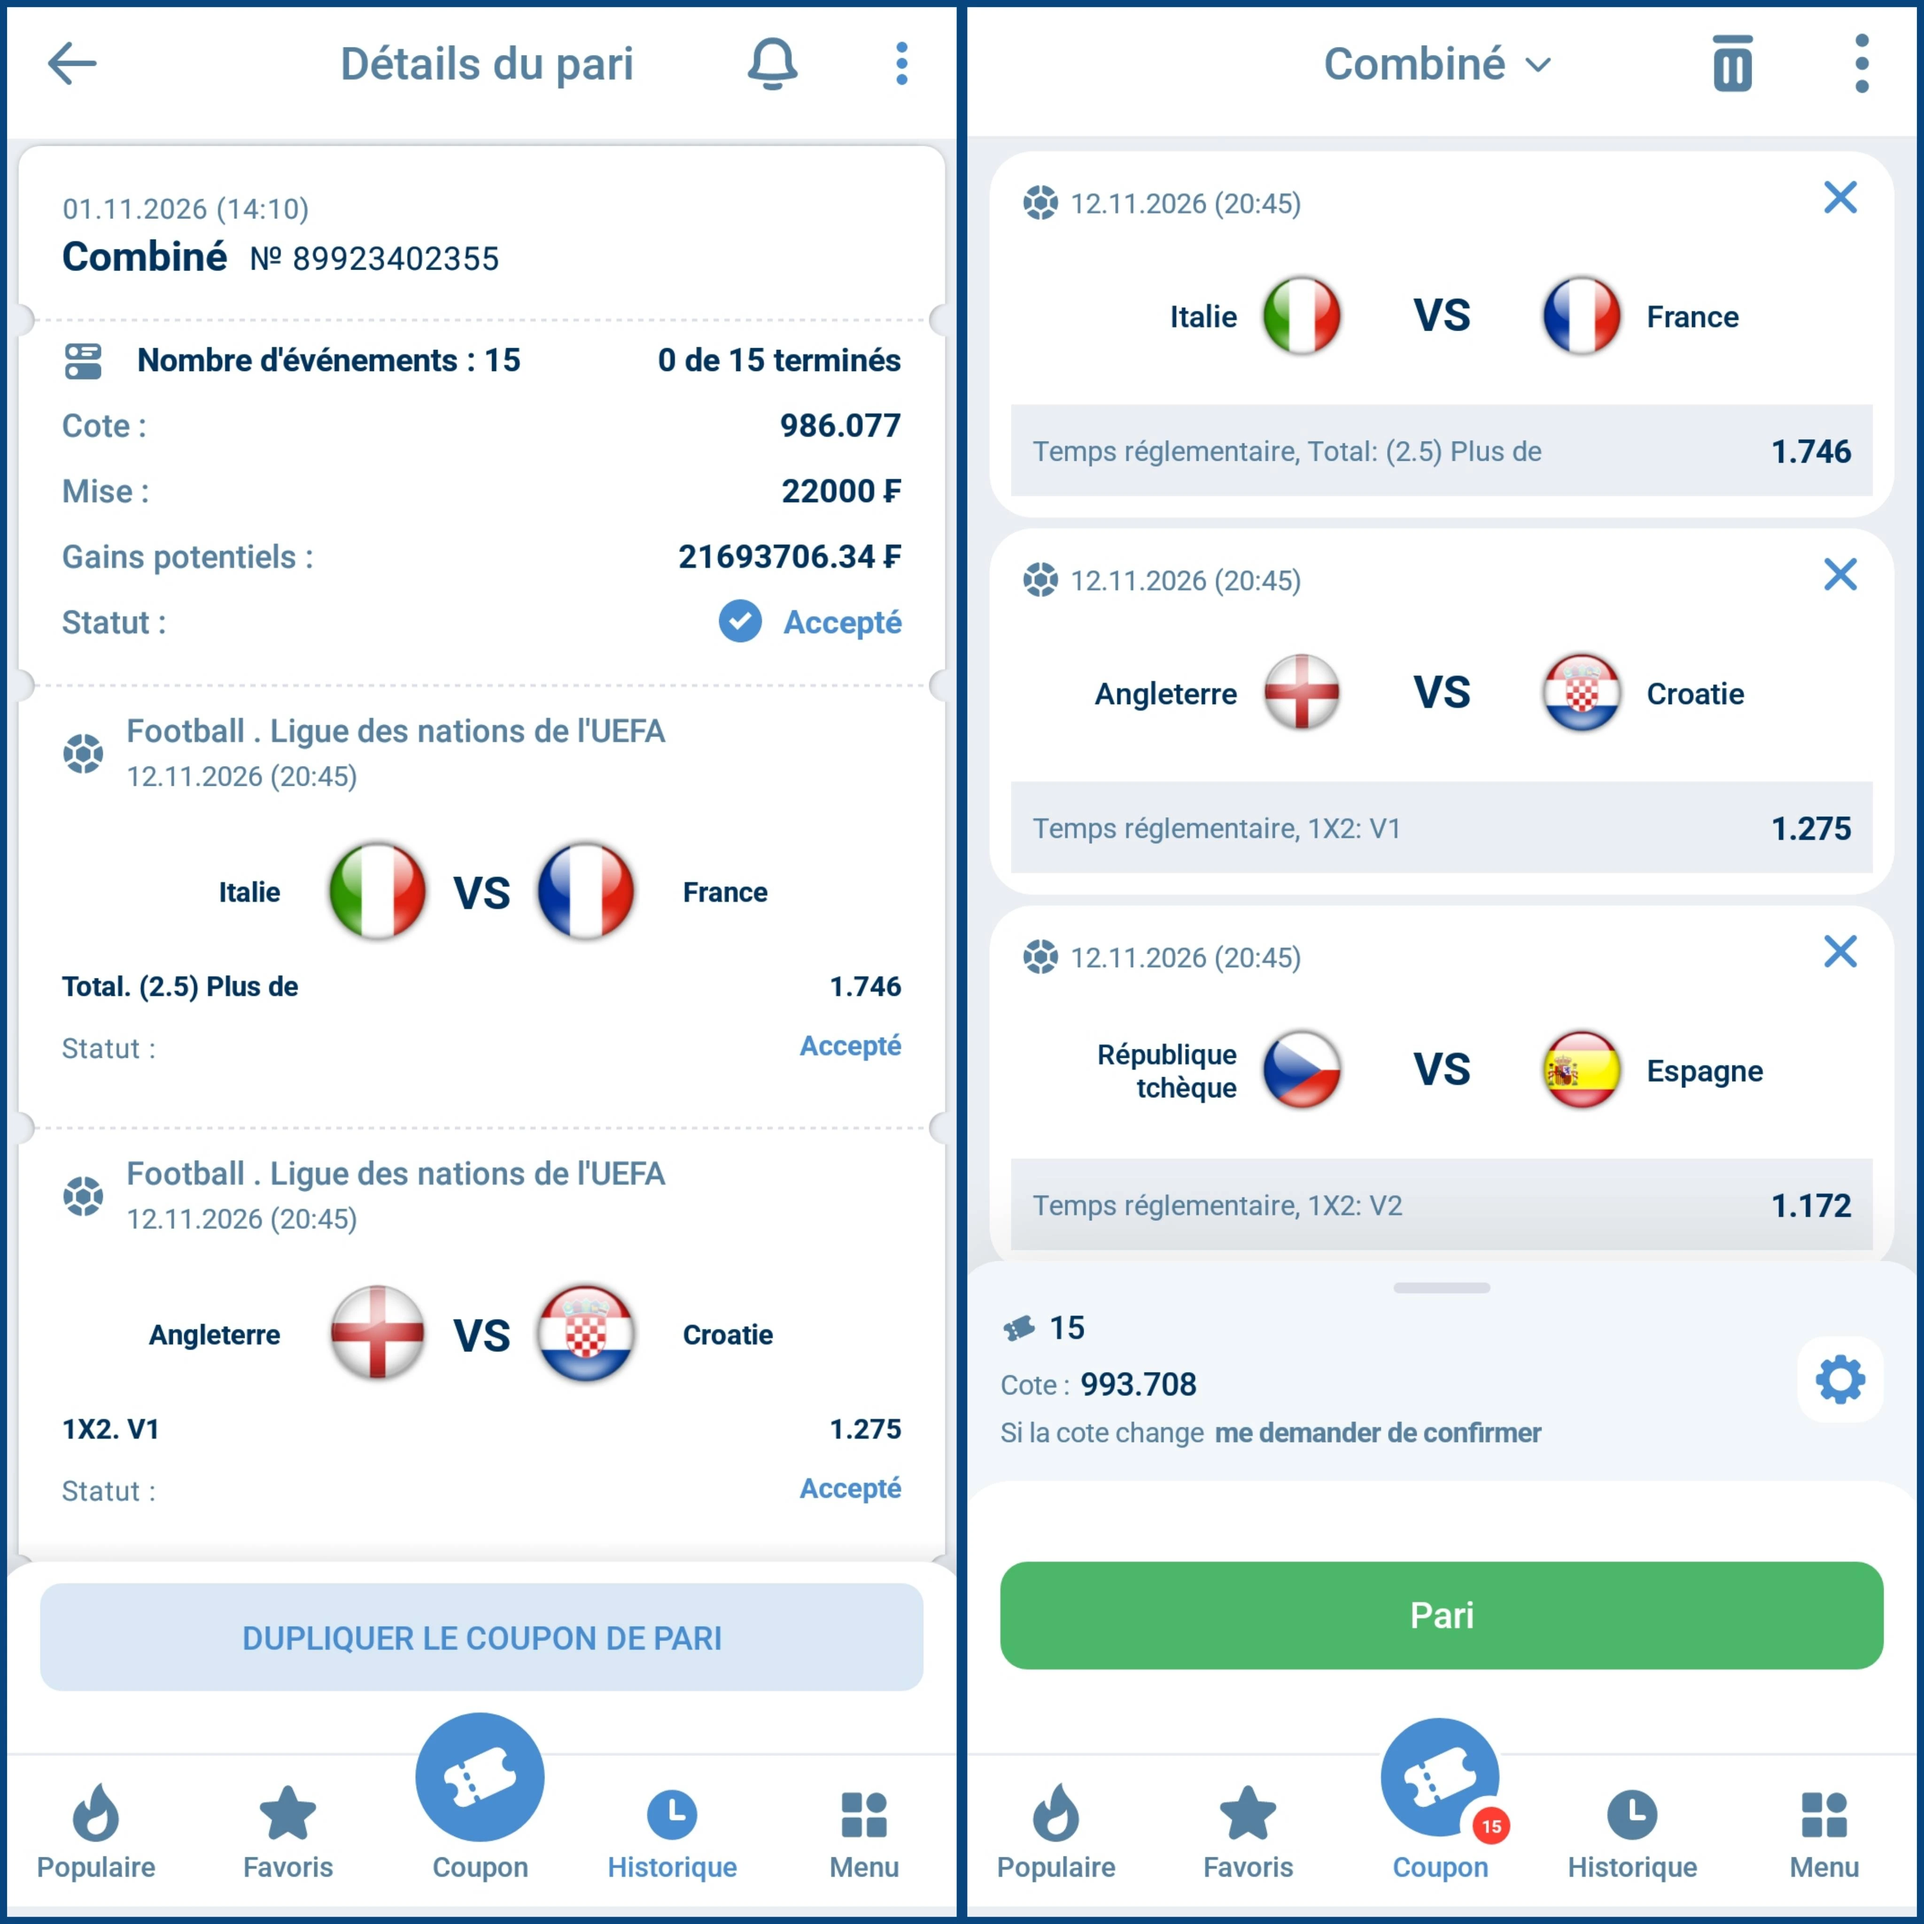
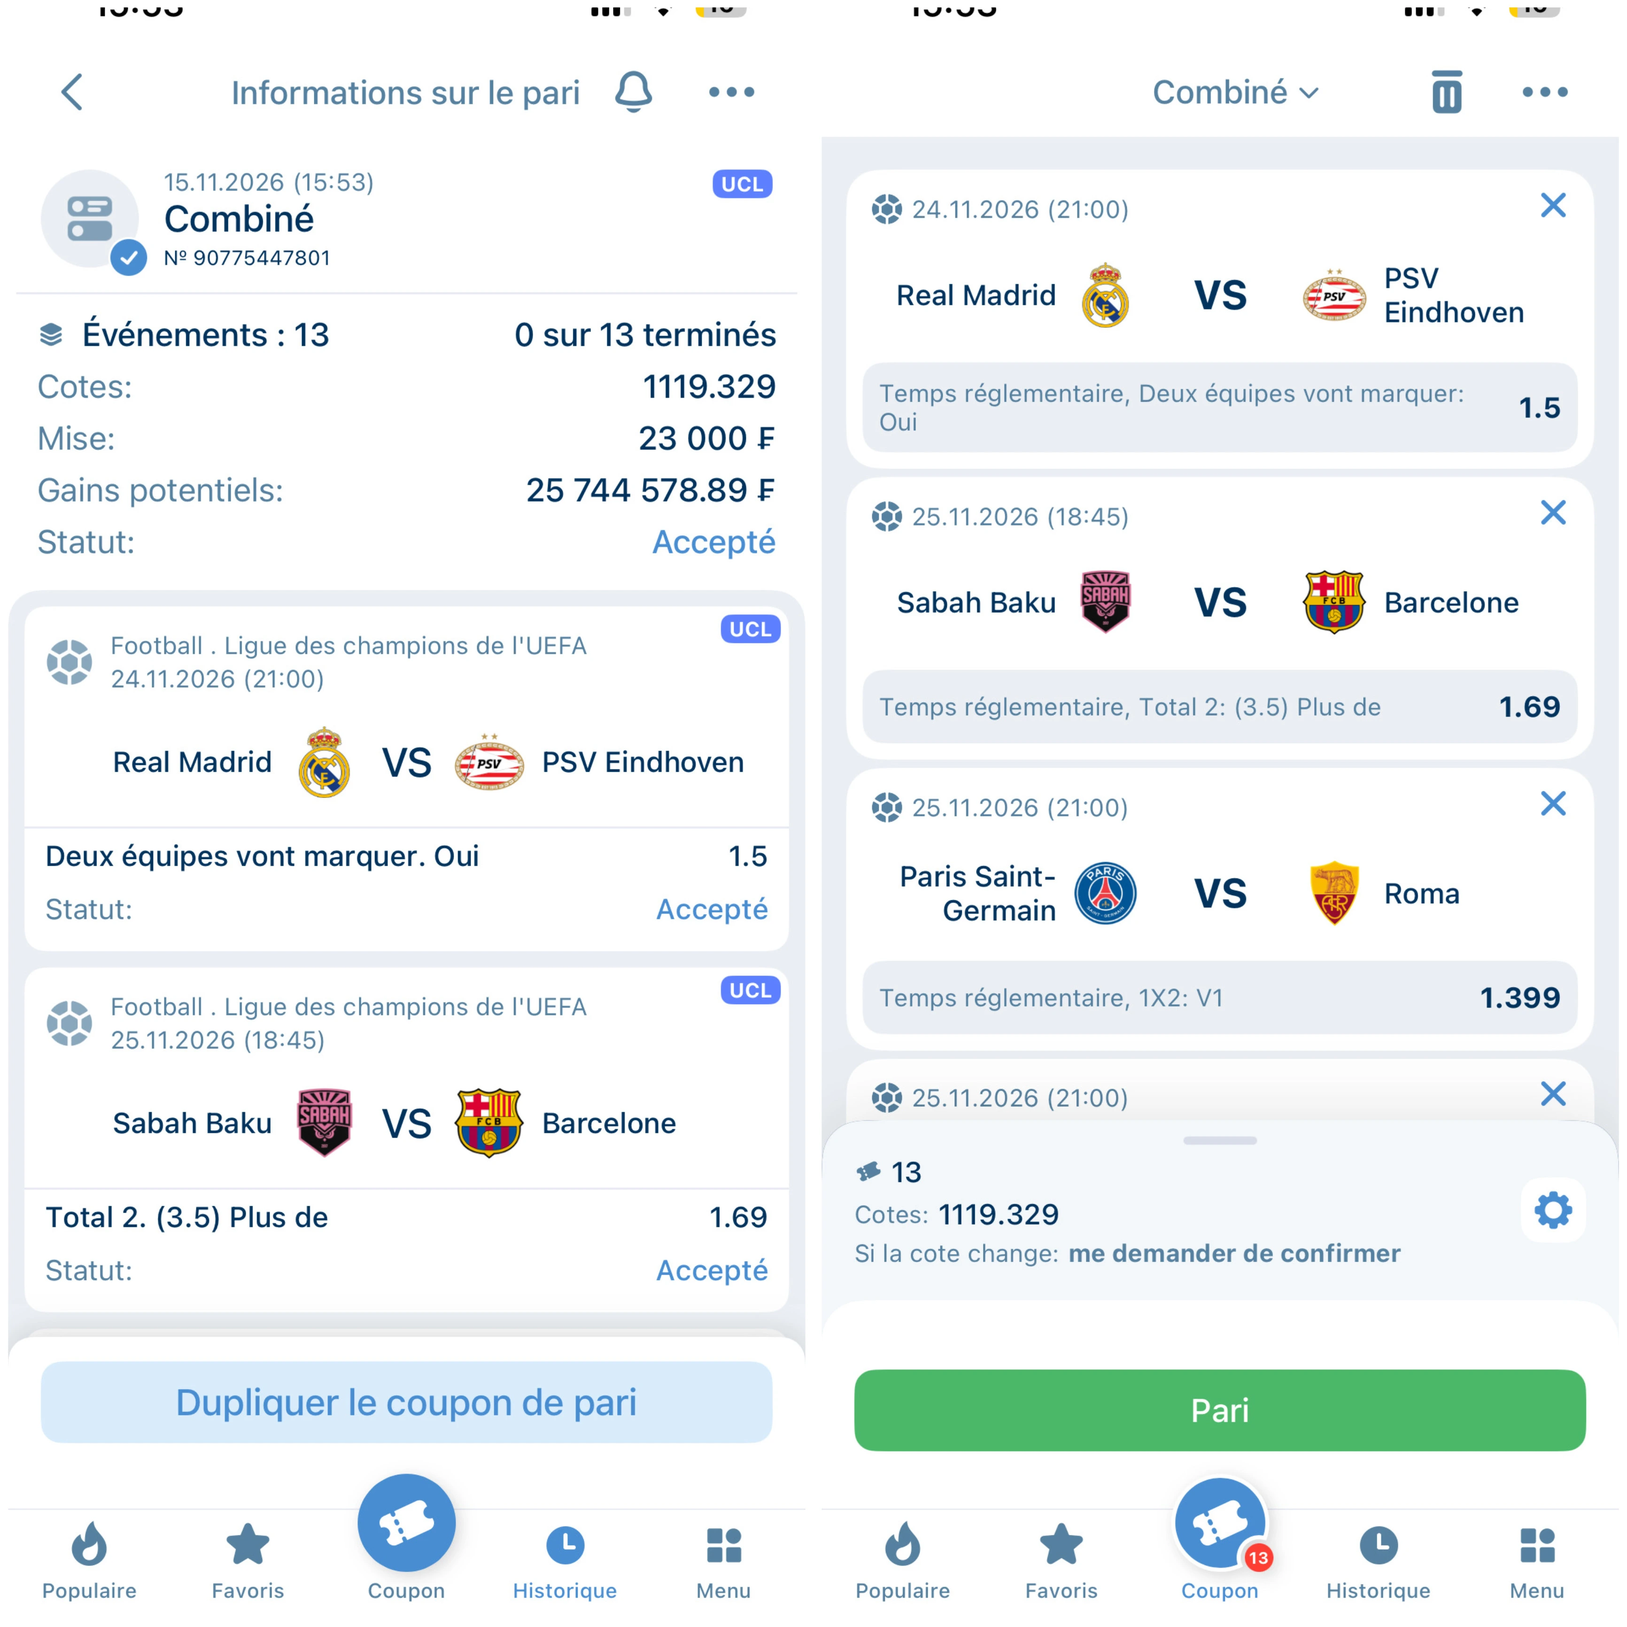
MAXO ads 16_11

diff --git a/src/constants/data.ts b/src/constants/data.ts
@@ -2,38 +2,40 @@ import { CouponData, WinningCoupon } from "@/types/dataTypes";
 
 export const COUPON_DATA: CouponData = {
   id: 1,
-  odds: 986.077,
-  stake: 22000,
-  gain: 21693706.34,
-  date: "12/11/2026",
+  odds: 1119.329,
+  stake: 23000,
+  gain: 25744578.89,
+  date: "24/11/2026",
   image_url: "/assets/coupon_jour.webp",
-  whatsapp_link: "https://whatsapp.com/channel/0029VbBQO9YFi8xh4alTcn1e",
+  whatsapp_link: "https://whatsapp.com/channel/0029VbDhRukAe5Vu4NRJ6u1y",
 };
 // MHRT PRONOS : https://whatsapp.com/channel/0029VbBaBPKEwEk5K7WG1y0r
+// R700 : https://whatsapp.com/channel/0029VbBQO9YFi8xh4alTcn1e
+// MAXO : https://whatsapp.com/channel/0029VbDhRukAe5Vu4NRJ6u1y
 export const WONNING_COUPONS: WinningCoupon[] = [
   {
     id: 0,
-    odds: 388.782,
+    odds: 428.596,
     stake: 5000,
-    gain: 1943911.98,
-    date: "03/11/2026",
-    image_url: "/assets/won_0.png",
+    gain: 2142979.67,
+    date: "16/11/2026",
+    image_url: "/assets/won_0.jpg",
   },
   {
     id: 1,
-    odds: 552.421,
+    odds: 332.878,
     stake: 5000,
-    gain: 2762107.1,
-    date: "01/11/2026",
-    image_url: "/assets/won_1.png",
+    gain: 1664390.53,
+    date: "15/11/2026",
+    image_url: "/assets/won_1.jpg",
   },
   {
     id: 2,
-    odds: 382.768,
+    odds: 511.743,
     stake: 5000,
-    gain: 1913840.79,
-    date: "22/10/2026",
-    image_url: "/assets/won_2.png",
+    gain: 2558715.53,
+    date: "15/11/2026",
+    image_url: "/assets/won_2.jpg",
   },
   {
     id: 3,

diff --git a/src/components/CouponPage/Hero.tsx b/src/components/CouponPage/Hero.tsx
@@ -25,7 +25,7 @@ export default function Hero() {
     <section id="heroSection" className="hero">
       <div className="mb-3!">
         <Image
-          src="/logo.png"
+          src="/logo_pk.png"
           alt="Logo"
           width={150}
           height={150}
